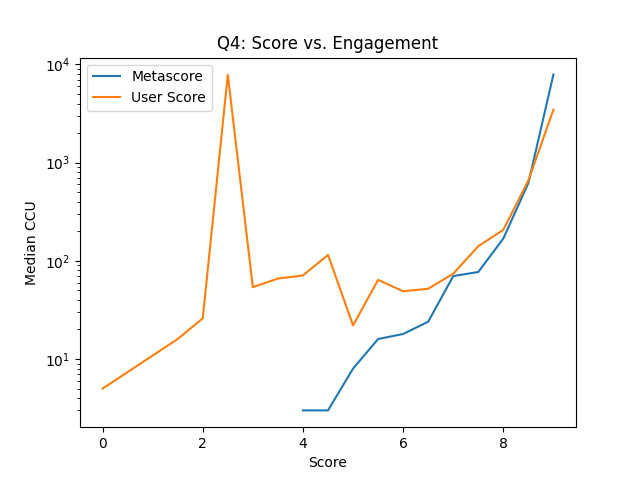
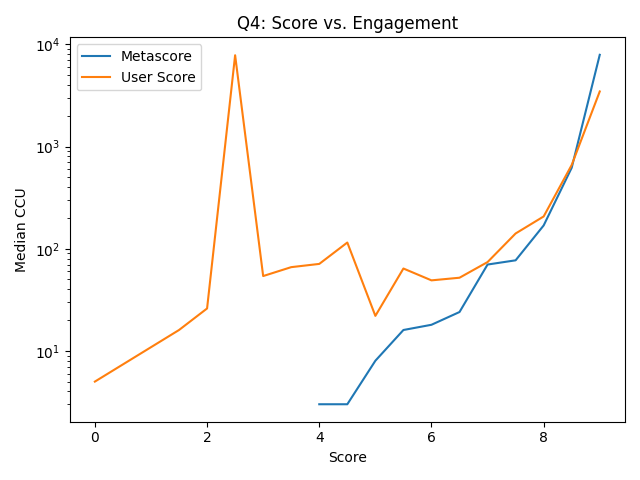
fix: remove unused mean_ccu from Q1, add tight_layout/close to Q4

diff --git a/scripts/phase_4/q1_price_vs_engagement.py b/scripts/phase_4/q1_price_vs_engagement.py
@@ -46,7 +46,6 @@ ccu_pipeline = [
         "$group": {
             "_id": {"genre": "$genre", "price_tier": "$price_tier"},
             "ccu_values": {"$push": "$player_stats.ccu"},
-            "mean_ccu": {"$avg": "$player_stats.ccu"},
             "count": {"$sum": 1},
         }
     },
@@ -59,7 +58,6 @@ ccu_pipeline = [
                     {"$floor": {"$divide": [{"$size": "$ccu_values"}, 2]}},
                 ]
             },
-            "mean_ccu": 1,
             "count": 1,
         }
     },
@@ -93,6 +91,7 @@ playtime_pipeline = [
     {"$sort": {"_id.genre": 1, "_id.price_tier": 1}},
 ]
 
+
 # run pipe and turn them into DF
 def get_q1_df(db):
     ccu_results = list(db.aggregate(ccu_pipeline))
@@ -105,7 +104,6 @@ def get_q1_df(db):
             "genre": doc["_id"]["genre"],
             "price_tier": doc["_id"]["price_tier"],
             "median_ccu": doc["median_ccu"],
-            "mean_ccu": round(doc["mean_ccu"], 1),
             "game_count": doc["count"],
         }
 
@@ -117,6 +115,7 @@ def get_q1_df(db):
     rows = list(ccu_data.values())
     df = pd.DataFrame(rows)
     return df
+
 
 # make all the Q1 plots from the df
 def make_q1_plots(df):
@@ -217,9 +216,11 @@ def make_q1_plots(df):
     combined = alt.hconcat(chart_ccu, chart_pt).resolve_scale(color="independent")
     combined.save("../../figures/phase_4/q1_heatmaps.png")
 
+
 def main():
     df = get_q1_df(db)
     make_q1_plots(df)
+
 
 if __name__ == "__main__":
     main()

diff --git a/scripts/phase_4/q4_score_engagement.py b/scripts/phase_4/q4_score_engagement.py
@@ -117,4 +117,6 @@ plt.xlabel("Score")
 plt.ylabel("Median CCU")
 plt.title("Q4: Score vs. Engagement")
 plt.legend()
+plt.tight_layout()
 plt.savefig("../../figures/phase_4/q4_score_engagement.png")
+plt.close()
